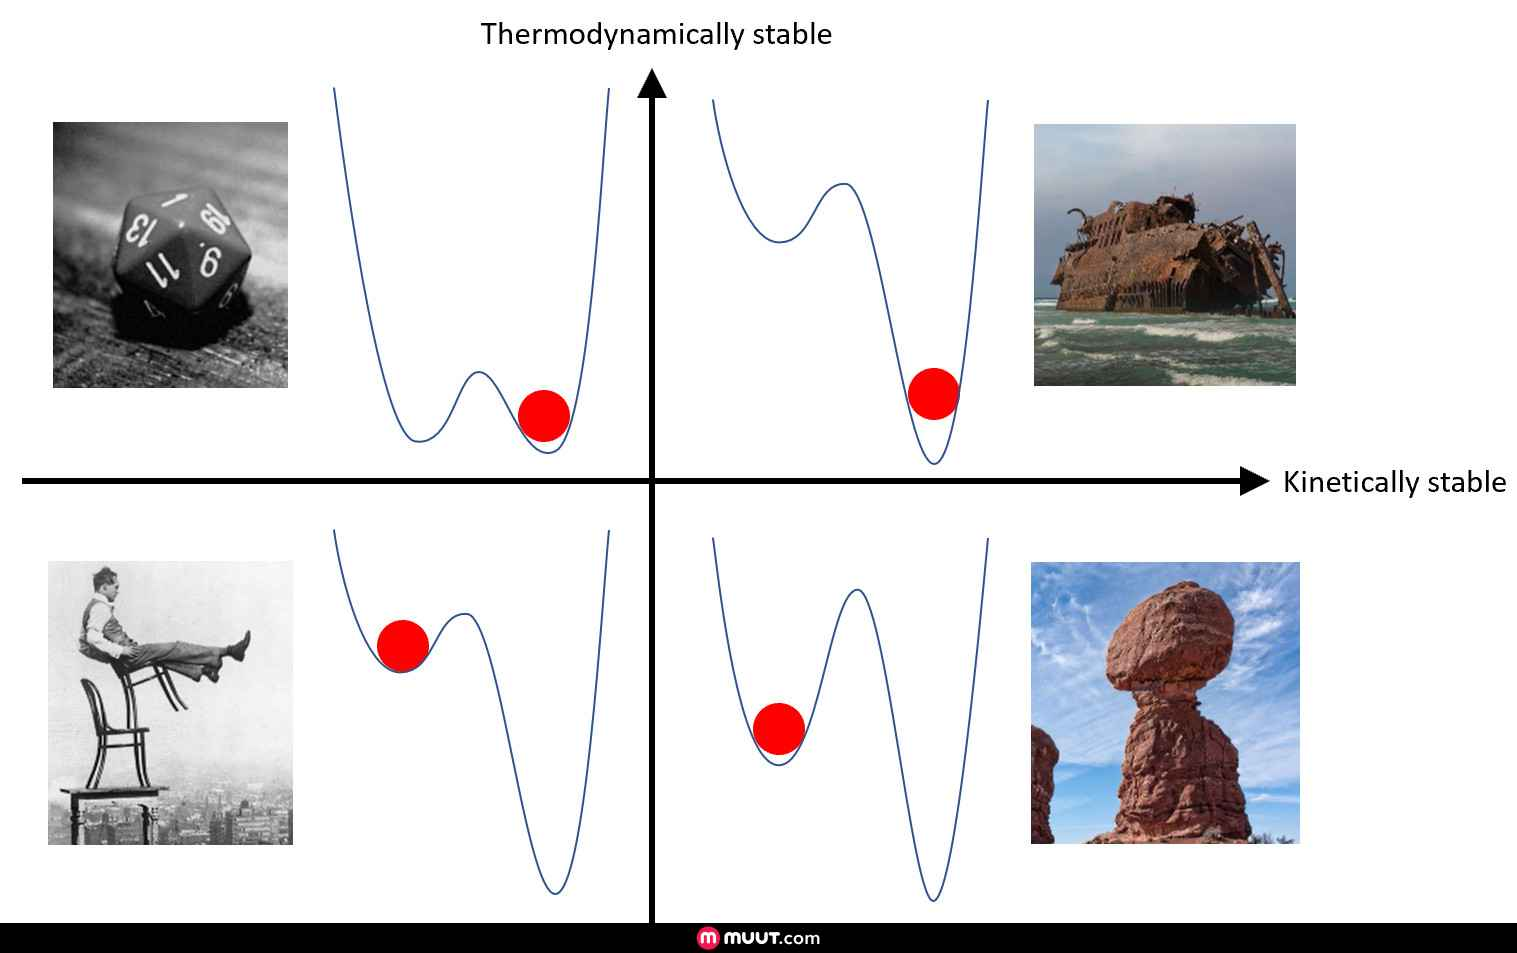
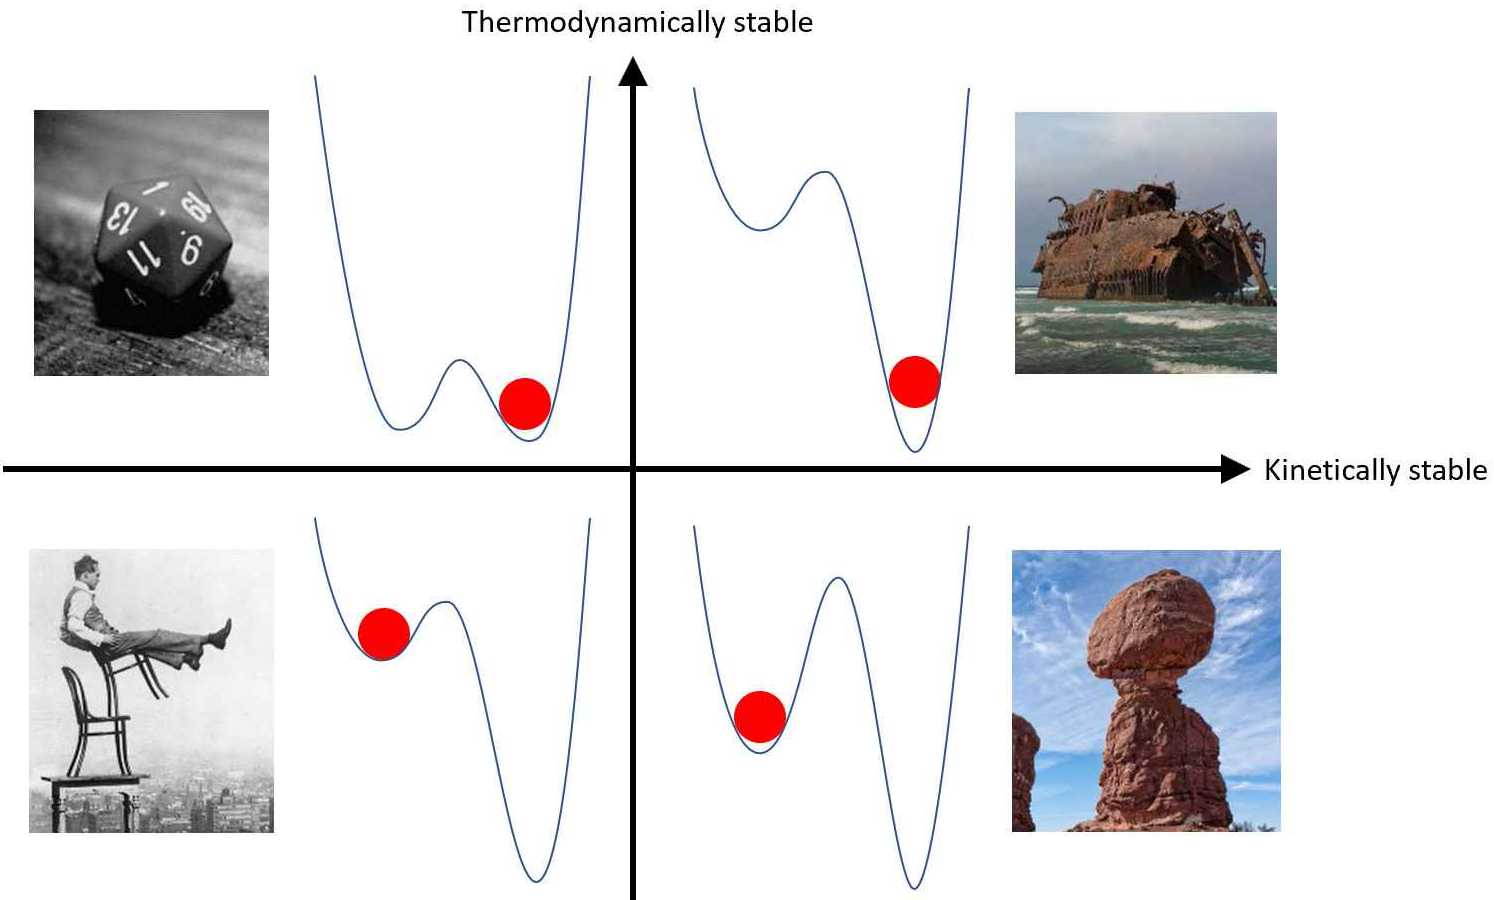
Minor changes reviewing against lectures

diff --git a/origins/origins2.tex b/origins/origins2.tex
@@ -1,6 +1,6 @@
 % MIT License
 
-% Copyright (c) 2019-2020 Simon Crase
+% Copyright (c) 2019-2022 Simon Crase
 
 % Permission is hereby granted, free of charge, to any person obtaining a copy
 % of this software and associated documentation files (the "Software"), to deal
@@ -148,15 +148,14 @@ See \cite{kitadai2018origins}, \cite{stueken2013did}, \cite{damer2016field}, \ci
 		\item Impacts
 	\end{itemize}
 \end{itemize}
-Figure \ref{fig:MillerUrey} depicts the Miller Urey experiment. 
 
 \begin{figure}[H]
 	\caption[Miller Urey Experiment]{Miller Urey Experiment\cite{miller1959organic}. It now seems likely that there was no methane in the atmosphere of the early Earth, but but we could use $CO_2$ to derive a different mixture.}\label{fig:MillerUrey}
-	\begin{subfigure}{0.40\textwidth}
+	\begin{subfigure}[t]{0.40\textwidth}
 		\caption{Apparatus}
 		\includegraphics[width=0.90\textwidth]{MillerUrey1}
 	\end{subfigure}
-	\begin{subfigure}{0.40\textwidth}
+	\begin{subfigure}[t]{0.40\textwidth}
 		\caption{Yields from sparking a mixture of $CH_4$, $NH_3$, $H_2O$. and $H_2$; 710 mg of carbon was added as $CH_4$}
 		\includegraphics[width=0.90\textwidth]{MillerUrey2}
 	\end{subfigure}
@@ -167,7 +166,6 @@ The other major source of organic compounds is through interplanetary dust parti
 	\caption[Carbonaceous Chondrites]{Carbonaceous Chondrites after \cite{ehrenfreund2002astrophysical}}\label{fig:CarbonaceousChondrites}
 	\includegraphics[width=0.8\textwidth]{CarbonaceousChondrites}
 \end{figure}
-
 
 The libraries are produced because the reactions are dependent on the types of energy that hit that particle--Figure \ref{fig:ReactionsInSpace}.
 
@@ -648,20 +646,9 @@ and these are the current record holders.
       \includegraphics[width=0.8\textwidth]{Extremophiles}
 \end{figure}
 
-So, for example,
-Methanopyrus kandleri can grow
-at temperatures
-up to 122 degrees Celsius -
-so this is way above boiling water.
-But, because of high pressure,
-the water where this microbe
-is naturally found does not boil -
-and so, this microbe can survive
-both high temperatures and high pressure.
-And, because it can survive
-multiple extremes,
-it's also known as
-a "polyextremophile."
+So, for example, Methanopyrus kandleri can grow at temperatures up to 122 degrees Celsius - so this is way above boiling water.
+But, because of high pressure, the water where this microbe is naturally found does not boil - and so, this microbe can survive both high temperatures and high pressure.
+And, because it can survive multiple extremes, it's also known as a "polyextremophile."
 
 \begin{figure}[H]
 	\begin{center}
@@ -750,8 +737,7 @@ This is a short film about the people and places of the Cuatro Ci\'enegas Basin 
 
 \subsubsection{Introduction: Valeria Souza}
 
-My name is Valeria Souza. I work as a researcher at \gls{gls:UNAM}, which is a very large university. This is probably the most important site
-that we have in the world right now to understand the origin of diversity. This place has an amazing geology that you can see just in front of you.\cite{souza2018lost}
+My name is Valeria Souza. I work as a researcher at \gls{gls:UNAM}, which is a very large university. This is probably the most important site that we have in the world right now to understand the origin of diversity. This place has an amazing geology that you can see just in front of you.\cite{souza2018lost}
 
 We have a tsunami of rocks that uplifted--Figure \ref{fig:CuatroCienegas2}--because the mountain that is over that edge is like an arrow. It has an active fault
 with magma underneath. And, it's pushing all the marine sediments that are from this valley up and then it's flipped and makes a heart shape--a 3,000 meter mountain.
@@ -767,29 +753,34 @@ with magma underneath. And, it's pushing all the marine sediments that are from 
 So, all this amazing geology is an explanation of why Cuatro  Ci\'enegas is a singularity--because these marine sediments store the conditions of the ancient sea. They store the magma that is rich in sulphur, that takes us all the way back to the \gls{gls:archean}, and it stores the minerals that formed in sand. These minerals are very old.
 
 Also, it is a sediment that is devoid of the most basic element for life, that is, phosphorus. So, this site is amazingly poor in phosphorus, and that makes for a very
-skewed stoichiometry. Most of life now cannot live in a skewed \gls{gls:stoichiometry}-- we need 60 nitrogens for each phosphorus. Here, we have 100 nitrogens--at least--for each phosphorus, in some places 200 nitrogens for each phosphorus.
+skewed stoichiometry. Most of life now cannot live in a skewed \gls{gls:stoichiometry}-- we need 60 nitrogens\footnote{At most} for each phosphorus. Here, we have 100 nitrogens--at least--for each phosphorus, in some places 200 nitrogens for each phosphorus.
 
 So, how they can make basic things, such as ribosomes or \gls{gls:DNA}, is because they are really good at stealing phosphorus from anybody else, including rocks. So, they have an amazing array of strategies to deal with the lack of phosphorus, and they did that since the Archean.
 
 So, here we have \glspl{gls:stromatolite} and microbial mats, whose ancestry goes back
-to the Precambrian in some cases--Figure \ref{fig:ma_0703_NF_CuatroCienegas_stromatolite_1280}. And, we are going to a site where we think we have the boundary between the Archean and the Precambrian\footnote{Should this be Proterozoic?}. Since this is a blue pool, we are talking about the moment where animals turned the planet blue, and that was in the \gls{gls:ediacaran} in the late Precambrian.
+to the Precambrian in some cases--Figure \ref{fig:ma_0703_NF_CuatroCienegas_stromatolite_1280}. In Figure  Figure \ref{fig:boundary:precambrian} we are going to a site where we think we have the boundary between the Archean and the Precambrian\footnote{Should this be Proterozoic?}. Since this is a blue pool, we are talking about the moment where animals turned the planet blue, and that was in the \gls{gls:ediacaran} in the late Precambrian.
 
 \begin{figure}[H]
 	\caption[Stromatolites at Cuatro Ci\'enegas]{Stromatolites at Cuatro Ci\'enegas \cite{perezortega2020pools}}\label{fig:ma_0703_NF_CuatroCienegas_stromatolite_1280}
 	\includegraphics[width=\textwidth]{ma_0703_NF_CuatroCienegas_stromatolite_1280}
 \end{figure}
 
+\begin{figure}[H]
+	\caption[ the boundary between the Archean and the Precambrian]{the boundary between the Archean and the Precambrian}\label{fig:boundary:precambrian}
+	\includegraphics[width=\textwidth]{CuatroCienegas12}
+\end{figure}
+
 \subsubsection{Microbial Mats: Maria Kalambokidis}
-My name is Maria Kalambokidis, and I'm an intern for a year, working in Valeria's lab in \gls{gls:UNAM}, in the Department of Evolutionary Ecology. And, right now, we're at Pozas Azules, at the site of the Archaean domes. 
+My name is Maria Kalambokidis, and I'm an intern for a year, working in Valeria's lab in \gls{gls:UNAM}, in the Department of Evolutionary Ecology. Right now, we're at Pozas Azules, at the site of the Archaean domes. 
+
+Figure \ref{fig:CuatroCienegas:microvial:mat}  shows a microbial mat that created a bubble through the activity of the methanogens. The bubble eventually burst, creating this perimeter. We sampled the microbial mats that are still present there; right now, they're hidden beneath the salt crust, because it's so dry. My research is looking at the evolutionary resilience of the microbial mats at Cuatro Ci\'enegas.
 
 \begin{figure}[H]
-	\caption[A microbial mat showing the activity of  methanogens]{A microbial mat that created a bubble through the activity of  methanogens} 
+	\caption[A microbial mat showing the activity of  methanogens]{A microbial mat that created a bubble through the activity of  methanogens}\label{fig:CuatroCienegas:microvial:mat}
 	\includegraphics[width=0.9\textwidth]{CuatroCienegas3}
 \end{figure}
 
-So, here you have a microbial mat that created a bubble through the activity of the methanogens. It created a bubble and then it eventually burst, creating this perimeter. So, we sampled the microbial mats that are still present there. And, right now, they're hidden beneath the salt crust, because it's so dry. My research is looking at the evolutionary resilience of the microbial mats at Cuatro i\'enegas.
-
-So, the microbial mats create a codependent community where each layer is sort of representing the history of metabolisms on Earth--Figure \ref{fig:MicrobialMatDetail}. So, you start with methanogens, 
+The microbial mats create a codependent community where each layer represents the history of metabolisms on Earth--Figure \ref{fig:MicrobialMatDetail}. You start with methanogens, 
 which create nutrients for the next layer of sulfur-oxidizing bacteria, all the way up until photosynthesis. So, through this community, they've become really dependent on each other and they evolve together, creating a really resilient community in Cuatro  Ci\'enegas that has existed for many millennia.
 
 \begin{figure}[H]
@@ -816,7 +807,7 @@ On this planet, life survived???
 ???? the rocks
 and transformed all of the minerals.???
 \subsubsection{Dra. Gabriela Olmedo Alvarez}
-My name is Gabriela Olmedo-Álvarez, and I work at Cinvestav: ''center of research for advanced studies.'' I'm in Mexico, right in the middle of Mexico - in Irapuato. I'm the director of Cinvestav in Irapuato, although I am also a researcher. And, I've been working for 15 years, close to Valeria Souza, in trying to decipher what are the keys that allow so much diversity of microorganisms inhabit these places.
+My name is Gabriela Olmedo-Álvarez, and I work at Cinvestav: center of research for advanced studies. I'm in Mexico, right in the middle of Mexico - in Irapuato. I'm the director of Cinvestav in Irapuato, although I am also a researcher. And, I've been working for 15 years, close to Valeria Souza, in trying to decipher what are the keys that allow so much diversity of microorganisms inhabit these places.
 
 \begin{figure}[H]
 	\caption{Pond with few nutrients but plenty of life.} 
@@ -1435,9 +1426,9 @@ Chris Kempes
 
 \subsection{Introduction}
 
-What properties and processes are ''easy'' to obtain through physical dynamics alone?
+This fits into the course, as it allows us to ask what properties and processes are ''easy'' to obtain through physical dynamics alone? We'll discuss how chemical reactions can lead to cycling behaviour or chaos, starting with a few definitions.
 \begin{itemize}
-	\item Limit cycle--Figure \ref{fig:LimitCycle};
+	\item Limit cycle--Figure \ref{fig:LimitCycle}--where the only way to define the steady-state behaviour is through a closed curve;
 	\item Chaotic Dynamics--Figure \ref{fig:ChaoticDynamics}.
 \end{itemize}
 

diff --git a/origins/origins3.tex b/origins/origins3.tex
@@ -1,6 +1,6 @@
 % MIT License
 
-% Copyright (c) 2019-2021 Simon Crase
+% Copyright (c) 2019-2022 Simon Crase
 
 % Permission is hereby granted, free of charge, to any person obtaining a copy
 % of this software and associated documentation files (the "Software"), to deal
@@ -69,10 +69,7 @@
 \begin{abstract}
  	These are my notes from the $3^{rd}$ week of the Santa Fe Institute Origins of Life Course\cite{sfi2020}.
   	The content and images contained herein are the intellectual property of the Santa Fe Institute, with the exception of any errors in transcription, which are my own.
-  	These notes are distributed in the hope that they will be useful,
-  	but without any warranty, and without even the implied warranty of
-  	merchantability or fitness for a particular purpose. All feedback is welcome,
-  	but I don't necessarily undertake to do anything with it.\\
+  	These notes are distributed in the hope that they will be useful, but without any warranty, and without even the implied warranty of merchantability or fitness for a particular purpose. All feedback is welcome, but I don't necessarily undertake to do anything with it.\\
   	\LaTeX source for all six lectures can be found at\\
   	\url{https://github.com/weka511/complexity/tree/master/origins}.
 \end{abstract}
@@ -101,34 +98,12 @@ This week is a more detailed look at biochemistry:\begin{itemize}
 		\includegraphics[width=0.1\textwidth]{DNA}
 	\end{center}
 \end{figure}
-We kind of imagine that
-somehow evolution met this magic
-molecule that has all these properties
-and that's how life emerged,
-or that's how we got \gls{gls:DNA} -
-just from the properties of the \gls{gls:DNA}.
-And, in these two lectures,
-I want to show you
-that this is not such a right -
-a correct - view,
-and \gls{gls:DNA} is much more noisy
-than we think
-and the pairing and their bases
-are much more noisy than that.
+We kind of imagine that somehow evolution met this magic molecule that has all these properties and that's how life emerged, or that's how we got \gls{gls:DNA}--just from the properties of the \gls{gls:DNA}.
+And, in these two lectures, I want to show you that this is not such a right--a correct--view, and \gls{gls:DNA} is much more noisy than we think and the pairing and their bases are much more noisy than that.
 
-\gls{gls:DNA} has a mutation rate
-of ten to the minus ten errors
-per replication per base,
-which is a really amazingly low rate,
-and I will go a bit into
-how we get such a low rate
-in the next lecture.
+\gls{gls:DNA} has a mutation rate of $10^{-10}$ errors per replication per base, which is a really amazingly low rate, and I will go a bit into how we get such a low rate in the next lecture.
 
-In this lecture, I want to talk about
-the bases,
-and for this I need to go a bit into
-the structure of nucleotides.
-
+In this lecture, I want to talk about the bases, and for this I need to go a bit into the structure of nucleotides.
 
 \begin{figure}[H]
 	\caption[The 4 Nucleotides in \gls{gls:DNA}]{The 4 Nucleotides in \gls{gls:DNA}--two \glspl{gls:purine} and two \glspl{gls:pyrimidine}.}\label{fig:Nucleotides} 
@@ -180,23 +155,21 @@ In addition, I listed a couple more modified bases that you can see - one is xan
 \end{figure}
 
 
-There is actually a database online
-that lists
-all the known DNA modifications
-that have been observed
-actually in nature.
-Figure \ref{fig:ModifiedDNA_Nucleobases} includes 44 modified nucleobases
-that actually have been observed
-on DNA in nature.
-In addition, there is the few gray ones
-that have been produced artificially.
+There is actually a database online that lists all the known DNA modifications that have been observed actually in nature.
+Figure \ref{fig:ModifiedDNA_Nucleobases} includes 44 modified nucleobases that actually have been observed on DNA in nature.
+In addition, there are a few gray ones that have been produced artificially.
 
 \begin{figure}[H]
 	\caption[Modified DNA nucleobases]{Modified DNA nucleobases \cite{sood2019dnamod},\cite{sood2019dnamod_website}} \label{fig:ModifiedDNA_Nucleobases} 
 	\includegraphics[width=0.9\textwidth]{ModifiedDNA_Nucleobases}
 \end{figure}
 
-The are a couple of bacteriophages, PBS1 and PBS2, that contain Uracil instead of thymine in their DNA\cite{hemphill1975bacteriophages}. Either the thymine has been replaced, or these phages are more primitive, and never used thymine.
+The are a couple of bacteriophages, PBS1 and PBS2, that contain Uracil instead of thymine in their DNA. Either the thymine has been replaced, or these phages are more primitive, and never used thymine.
+
+\begin{figure}[H]
+	\caption[Phage of Bacillus subtillis]{Phage of Bacillus subtillis\cite{hemphill1975bacteriophages}} \label{fig:PhagePBS1} 
+	\includegraphics[width=0.9\textwidth]{PhagePBS1}
+\end{figure}
 
 When people talk about \gls{gls:methylation} of DNA, they usually mean 5-methylcytosine, Figure \ref{fig:5methylcytosine}, even though there are many other ways to do it
 \begin{figure}[H]
@@ -694,11 +667,11 @@ Even in the RNA world, where RNA can fold and catalyze reaction, folding would b
 A system may be stable in both sense, either, or none--Figure \ref{fig:VisualizingStability}.
 \begin{figure}[H]
 	\begin{center}
-		\caption[A system may be stable in both sense, either, or none]{A system may be stable in both sense, either, or none. Original course image; energy plot added by Michael McGuffin--used by his kind permission.}\label{fig:VisualizingStability}
+		\caption[A system may be stable in both senses, either, or none]{A system may be stable in both senses, either, or none. The die can easily be made to roll, but this wouldn't release any energy. The shipwreck isn't easy to move, and moving it won't release much energy. The man balanced on the chairs would require very little energy to make him fall, and falling would release a lot of energy. The boulder will release a lot of energy if it falls, but it would require a lot of energy to do so. Original course image; energy plot added by Michael McGuffin--used by his kind permission.}\label{fig:VisualizingStability}
 		\includegraphics[width=\textwidth]{MichaelMcGuffinStability}
 	\end{center}
 \end{figure}
-
+ 
 
 Figure \ref{fig:ApplicationsToChemistry} shows how this applies to chemistry.
 

diff --git a/origins/origins1.tex b/origins/origins1.tex
@@ -1,6 +1,6 @@
 % MIT License
 
-% Copyright (c) 2019-2021 Simon Crase
+% Copyright (c) 2019-2022 Simon Crase
 
 % Permission is hereby granted, free of charge, to any person obtaining a copy
 % of this software and associated documentation files (the "Software"), to deal
@@ -558,10 +558,10 @@ One of the overarching questions of this class is how do we unwind present day l
 	\includegraphics[width=0.5\textwidth]{RibosomePhases}
 \end{figure}
 
-Carl Woese used this to build new a Tree of Life.
+Carl Woese used this to build new a Tree of Life. For Viruses, see also \cite{harris2021place}.
 
 \begin{figure}[H]
-	\caption[Tree of Life]{\gls{gls:TOL}\cite{nair2012woese}}\label{fig:TOL} 
+	\caption[Tree of Life]{Tree of Life\cite{nair2012woese}}\label{fig:TOL} 
 	\includegraphics[width=0.9\textwidth]{TOL}
 \end{figure}
 
